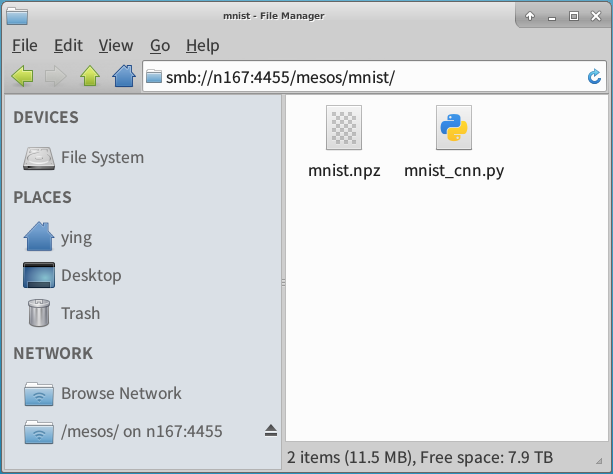
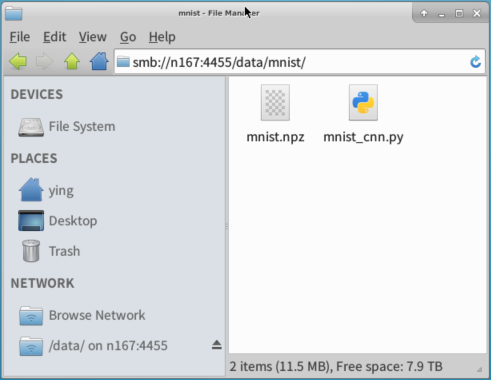
fix typo

diff --git a/docs/README.md b/docs/README.md
@@ -1,20 +1,20 @@
 
-# Mesos集群使用说明
+# GPU集群使用说明
 
 2017-12-20
 ---
 
 # 资源清单
 
-|   机器名  | CPU核 | GPU |   内存   | SSD硬盘 |
-| -------- | ----- | --- | -------- | ------  |
-| n167     | 20    | 2   | 124.6 GB | 180 GB  |
-| n168     | 20    | 2   | 124.6 GB | 180 GB  |
-| n169     | 20    | 2   | 124.6 GB | 180 GB  |
-| n170     | 20    | 2   | 124.6 GB | 180 GB  |
+|   机器名  | CPU核 | GPU |   内存   | SSD硬盘 | HDD硬盘 |
+| -------- | ----- | --- | -------- | ------  | ------ |
+| n167     | 20    | 2   | 124.6 GB | 180 GB  | 共8 TB |
+| n168     | 20    | 2   | 124.6 GB | 180 GB  |        |
+| n169     | 20    | 2   | 124.6 GB | 180 GB  |        |
+| n170     | 20    | 2   | 124.6 GB | 180 GB  |        |
 
 服务器：Dell PowerEdge R730
-CPU：`Intel Xeon E5-2630 v4 @ 2.20GHz`
+CPU：`Intel Xeon E5-2630 v4 @ 2.20GHz`，两个CPU，各10个物理核心，没有开启超线程
 GPU：`NVIDIA GP102 [GeForce GTX 1080 Ti] (rev a1)`
 
 # 服务地址
@@ -23,16 +23,15 @@ GPU：`NVIDIA GP102 [GeForce GTX 1080 Ti] (rev a1)`
 
 |      服务      | 地址                   | 说明  | 
 | -------------- | --------------------- | ----- |  
-| Mesos Master   | http://n167:5050      | 查看集群状态，任务状态，以及任务XD`stdout`和`stderr`打印的输出 |
+| Master         | http://n167:5050      | 查看集群状态，任务状态，以及任务XD`stdout`和`stderr`打印的输出 |
 | Chronos        | http://n167:4400      | 提交和管理作业，查看作业状态。开启了HTTP Basic登录验证 |
 | FTP文件服务     | ftp://n167            | 管理代码和数据文件 |
-| Samba文件服务   | smb://n167:4455/mesos | 管理代码和数据文件 |
+| Samba文件服务   | smb://n167:4455/data  | 管理代码和数据文件 |
 
 > Chronos，FTP和Samba的 **用户名，密码** 请联系管理员。
 
-
 # FTP和Samba文件服务
-FTP和Samba文件服务对应的是各机器上的相同路径：`/gluster/volume2/mesosdata`。
+FTP和Samba文件服务对应的是各机器上的相同路径：`/gluster/volume2/data`。
 这是集群中4台机器上的Gluster分布式文件系统，在各台机器上均可见，总容量为8 TB，**没有设置副本**。
 
 对FTP，建议使用跨平台的 Filezilla 客户端。
@@ -46,17 +45,17 @@ sudo apt install -y smbclient    cifs-utils # Ubuntu
 
 将Samba文件服务挂载到客户机的`/mnt-path`：
 ```
-sudo mount -t cifs //n167/mesos /mnt-path -o user=<user>,pass=<pass>,port=4455
+sudo mount -t cifs //n167/data /mnt-path -o user=<user>,pass=<pass>,port=4455
 ```
 
 或写入客户机的`/etc/fstab`文件，以自动挂载：
 ```
-//n167/mesos /mnt-path cifs user=mesos,pass=<pass>,port=4455,iocharset=utf8 0 0
+//n167/data /mnt-path cifs user=<user>,pass=<pass>,port=4455,iocharset=utf8 0 0
 ```
 
 > 挂载后，向`/mnt-path`添加的文件实际上是上传到了集群的Samba文件服务器。
 > 强烈建议在客户机做好文件备份。
-> 也可直接在Linux桌面的文件管理器输入地址：`smb://n167:4455/mesos` 。
+> 也可直接在Linux桌面的文件管理器输入地址：`smb://n167:4455/data` 。
 
 # 使用Chronos提交作业
 
@@ -66,7 +65,7 @@ sudo mount -t cifs //n167/mesos /mnt-path -o user=<user>,pass=<pass>,port=4455
 (x_train, y_train), (x_test, y_test) = mnist.load_data(path="/data/mnist/mnist.npz")
 ```
 
-以Samba为例，在Linux系统的文件管理器输入地址：`smb://n167:4455/mesos` ，输入密码，登录后，新建文件夹`mnist`，然后将上面准备的`mnist_cnn.py`和`mnist.npz`文件拷贝进去。
+以Samba为例，在Linux系统的文件管理器输入地址：`smb://n167:4455/data` ，输入密码，登录后，新建文件夹`mnist`，然后将上面准备的`mnist_cnn.py`和`mnist.npz`文件拷贝进去。
 
 ![MNIST示例数据和代码](image/smb.png)
 
@@ -120,7 +119,7 @@ sudo mount -t cifs //n167/mesos /mnt-path -o user=<user>,pass=<pass>,port=4455
     "networkInfos": [],
     "volumes": [
       {
-        "hostPath": "/gluster/volume2/mesosdata",
+        "hostPath": "/gluster/volume2/data",
         "containerPath": "/data",
         "mode": "RW"
       }
@@ -136,7 +135,7 @@ sudo mount -t cifs //n167/mesos /mnt-path -o user=<user>,pass=<pass>,port=4455
 
 修改了作业的JSON配置后，单击 **Save Changes** 保存配置，回到主页面，再单击 **绿色的运行按钮** 执行作业。
 稍等一会儿，作业的状态会从 **QUEUED** 转为 **RUNNING**。
-可以在Mesos Web界面查看任务的执行状态和输出。
+可以在Web界面查看任务的执行状态和输出。
 
 > JSON配置的编辑页面有光标错位的bug，建议先用 VS Code 等编辑好，再将配置完整的粘贴过去。
 
@@ -157,41 +156,39 @@ sudo mount -t cifs //n167/mesos /mnt-path -o user=<user>,pass=<pass>,port=4455
 + 为便于排错，执行`env`输出环境信息，可以略去；
 + `sudo touch sudo_in_docker.txt` 只是用来测试一下容器中 **免输密码执行`sudo`命令**，也可略去；
 + `python mnist_cnn.py` 是实际执行作业的命令；
-+ 使用`tee`命令同时将计算结果输出到`stdout`和``out-`date +%Y%m%dT%H%M%S`.txt"``文件中，这样就可以从Mesos Web界面，以及FTP或Samba文件服务器查看输出结果。
++ 使用`tee`命令同时将计算结果输出到`stdout`和``out-`date +%Y%m%dT%H%M%S`.txt"``文件中，这样就可以从Web界面，以及FTP或Samba文件服务器查看输出结果。
 
 ### 执行环境
 作业命令是在Docker容器中执行的，使用的镜像是 `<registry>/dlkit:latest` ，其[Dockerfile](https://github.com/icsnju/dlkit/blob/master/Dockerfile) 基于CUDA 8.0和cuDNN 6，安装有**python 3.6**，**jdk 8**，**TensorFlow 1.4**，**Keras**，**Pytorch 0.3** 等库和框架。
 如果需要其它环境，或缺失某些库，请联系管理员。
 
 ### 工作路径
-在`"volumes"`部分，n167机器的 `/gluster/volume2/mesosdata` 路径（这也是FTP或Samba上传的实际路径）被映射到容器的`/data`路径。
+在`"volumes"`部分，n167机器的 `/gluster/volume2/data` 路径（这也是FTP或Samba上传的实际路径）被映射到容器的`/data`路径。
 > 注意，在`"command"`中的命令使用的是映射到容器中的`/data`这个路径。
 
 ### 资源申请
 `"cpus": 5,  "disk": 100,  "mem": 10240,  "gpus": 1`：这是为容器申请的资源，具体数值可凭经验估计。
 资源申请不能超过 **单台机器的容量** 。例如，每台机器上有2个GPU，那么可以申请0、1、2个，申请更多的话，作业会一直排队等待资源Offer，但无法获得这么多的资源，从而无法执行。
 
-作业获得资源后，将在集群中某一台机器上执行。每台机器都能读写 `/gluster/volume2/mesosdata` 中的文件。
+作业获得资源后，将在集群中某一台机器上执行。每台机器都能读写 `/gluster/volume2/data` 中的文件。
 
 ### 作业控制
 Chronos针对的是定时周期作业，这里选择手动启动作业，所以设置了 `"retries": 0` 和 `"schedule": "R1/2020-01-01T00:00:00Z/P1Y"`，即只执行1次，间隔1年，失败后重试0次，然后在Web界面手动启动作业。
 Chronos的Web界面会显示作业的状态，如Queue，Running，Success，Idle，Failed等。
-如果集群中有空闲资源，作业获得资源后转入运行状态，作业运行中和结束后可以在Mesos Web界面查看命令的输出。
+如果集群中有空闲资源，作业获得资源后转入运行状态，作业运行中和结束后可以在Web界面查看命令的输出。
 **手动启动作业后**，如果作业无法获得所需资源，会一直在队列中等待，当其它作业退出，释放资源后，等待的作业就可以获取资源，开始运行了。
 
 ### 其它
-`"runAsUser": "mesos"`：以mesos用户执行命令，mesos可以在容器中 **执行`sudo`命令，无需输入密码**。
-
 容器中 **无法访问校外网络，也不能使用个人账号访问外网**，不过其中已经设置了`http_proxy`和`https_proxy`的环境变量，`apt`源已修改为`http://mirrors.nju.edu.cn`。
 
 ### 查看任务的终端输出
-+ 在Mesos Web界面的Frameworks列表单击Chronos的 **ID** 链接；
++ 在Web界面的Frameworks列表单击Chronos的 **ID** 链接；
 + 然后在 **Active Tasks** 或 **Completed Tasks** 列表中选择任务ID对应的 **Sandbox** 链接；
 + 在任务页面打开`stdout`或`stderr`的链接，查看命令的输出。
 
 ----------
 
-![Mesos Web界面中的Chronos框架](image/mesos.png)
+![Web界面中的Chronos框架](image/mesos.png)
 
 ![Chronos框架详情和任务Sandbox](image/mesos-chronos.png)
 
